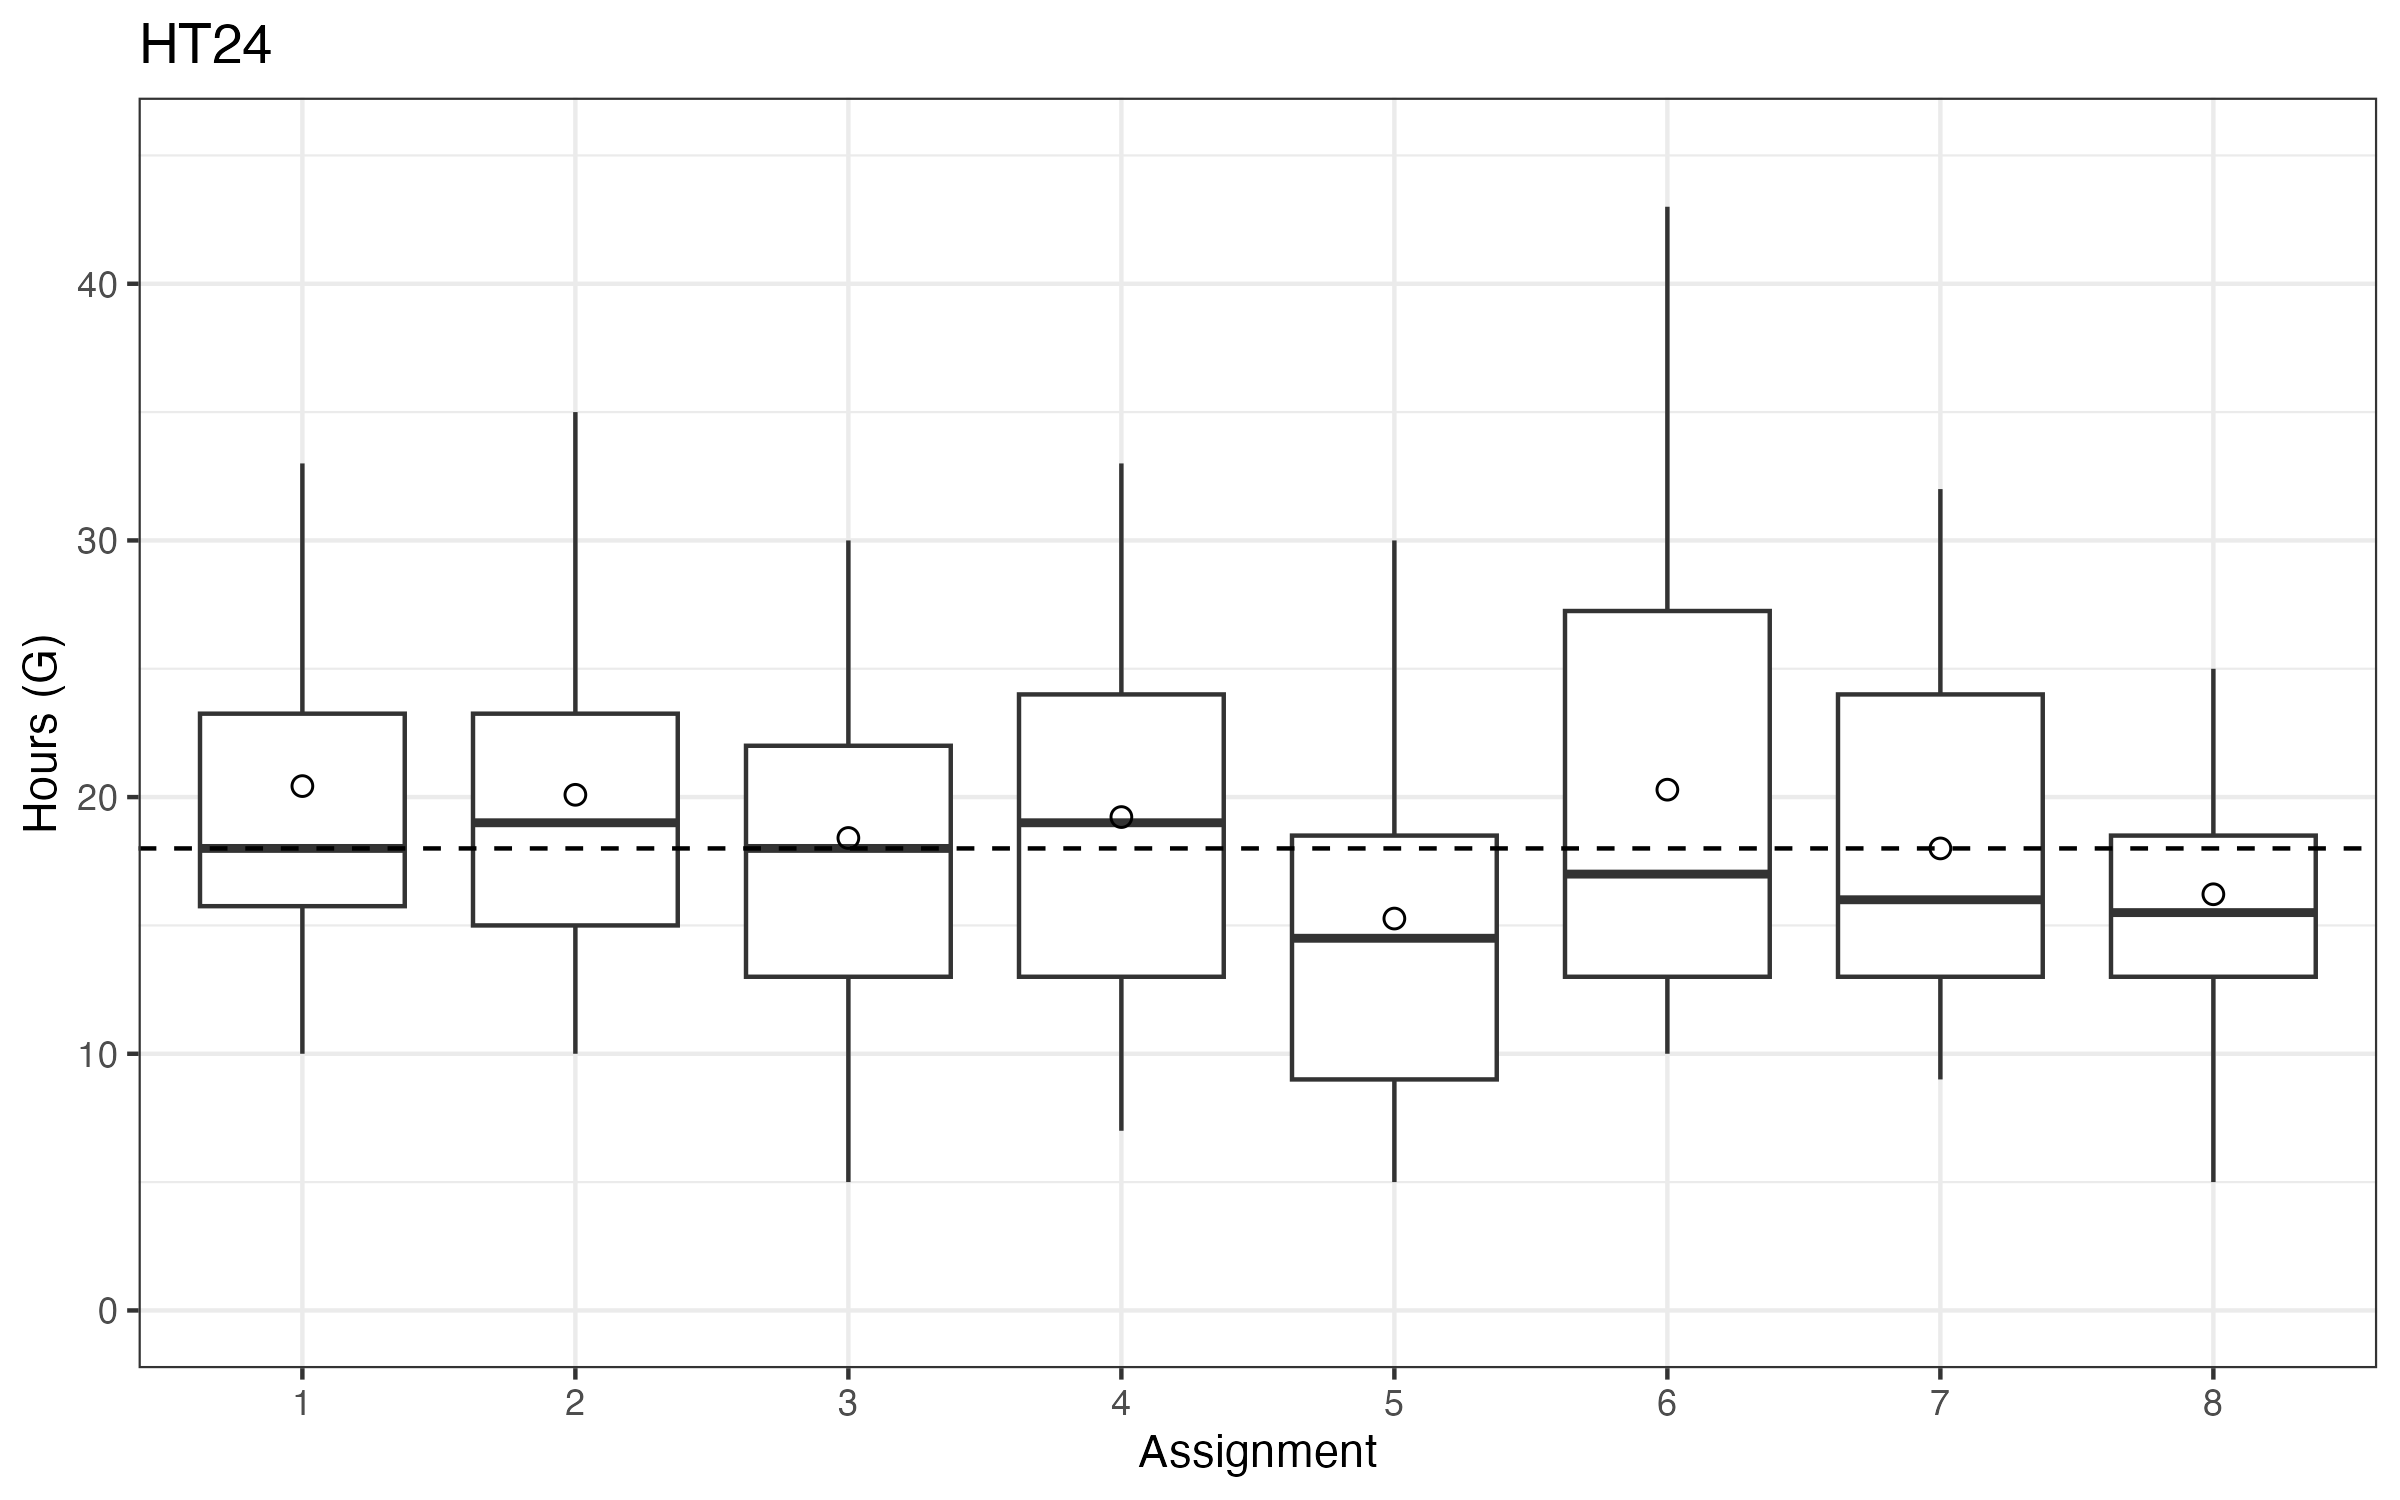
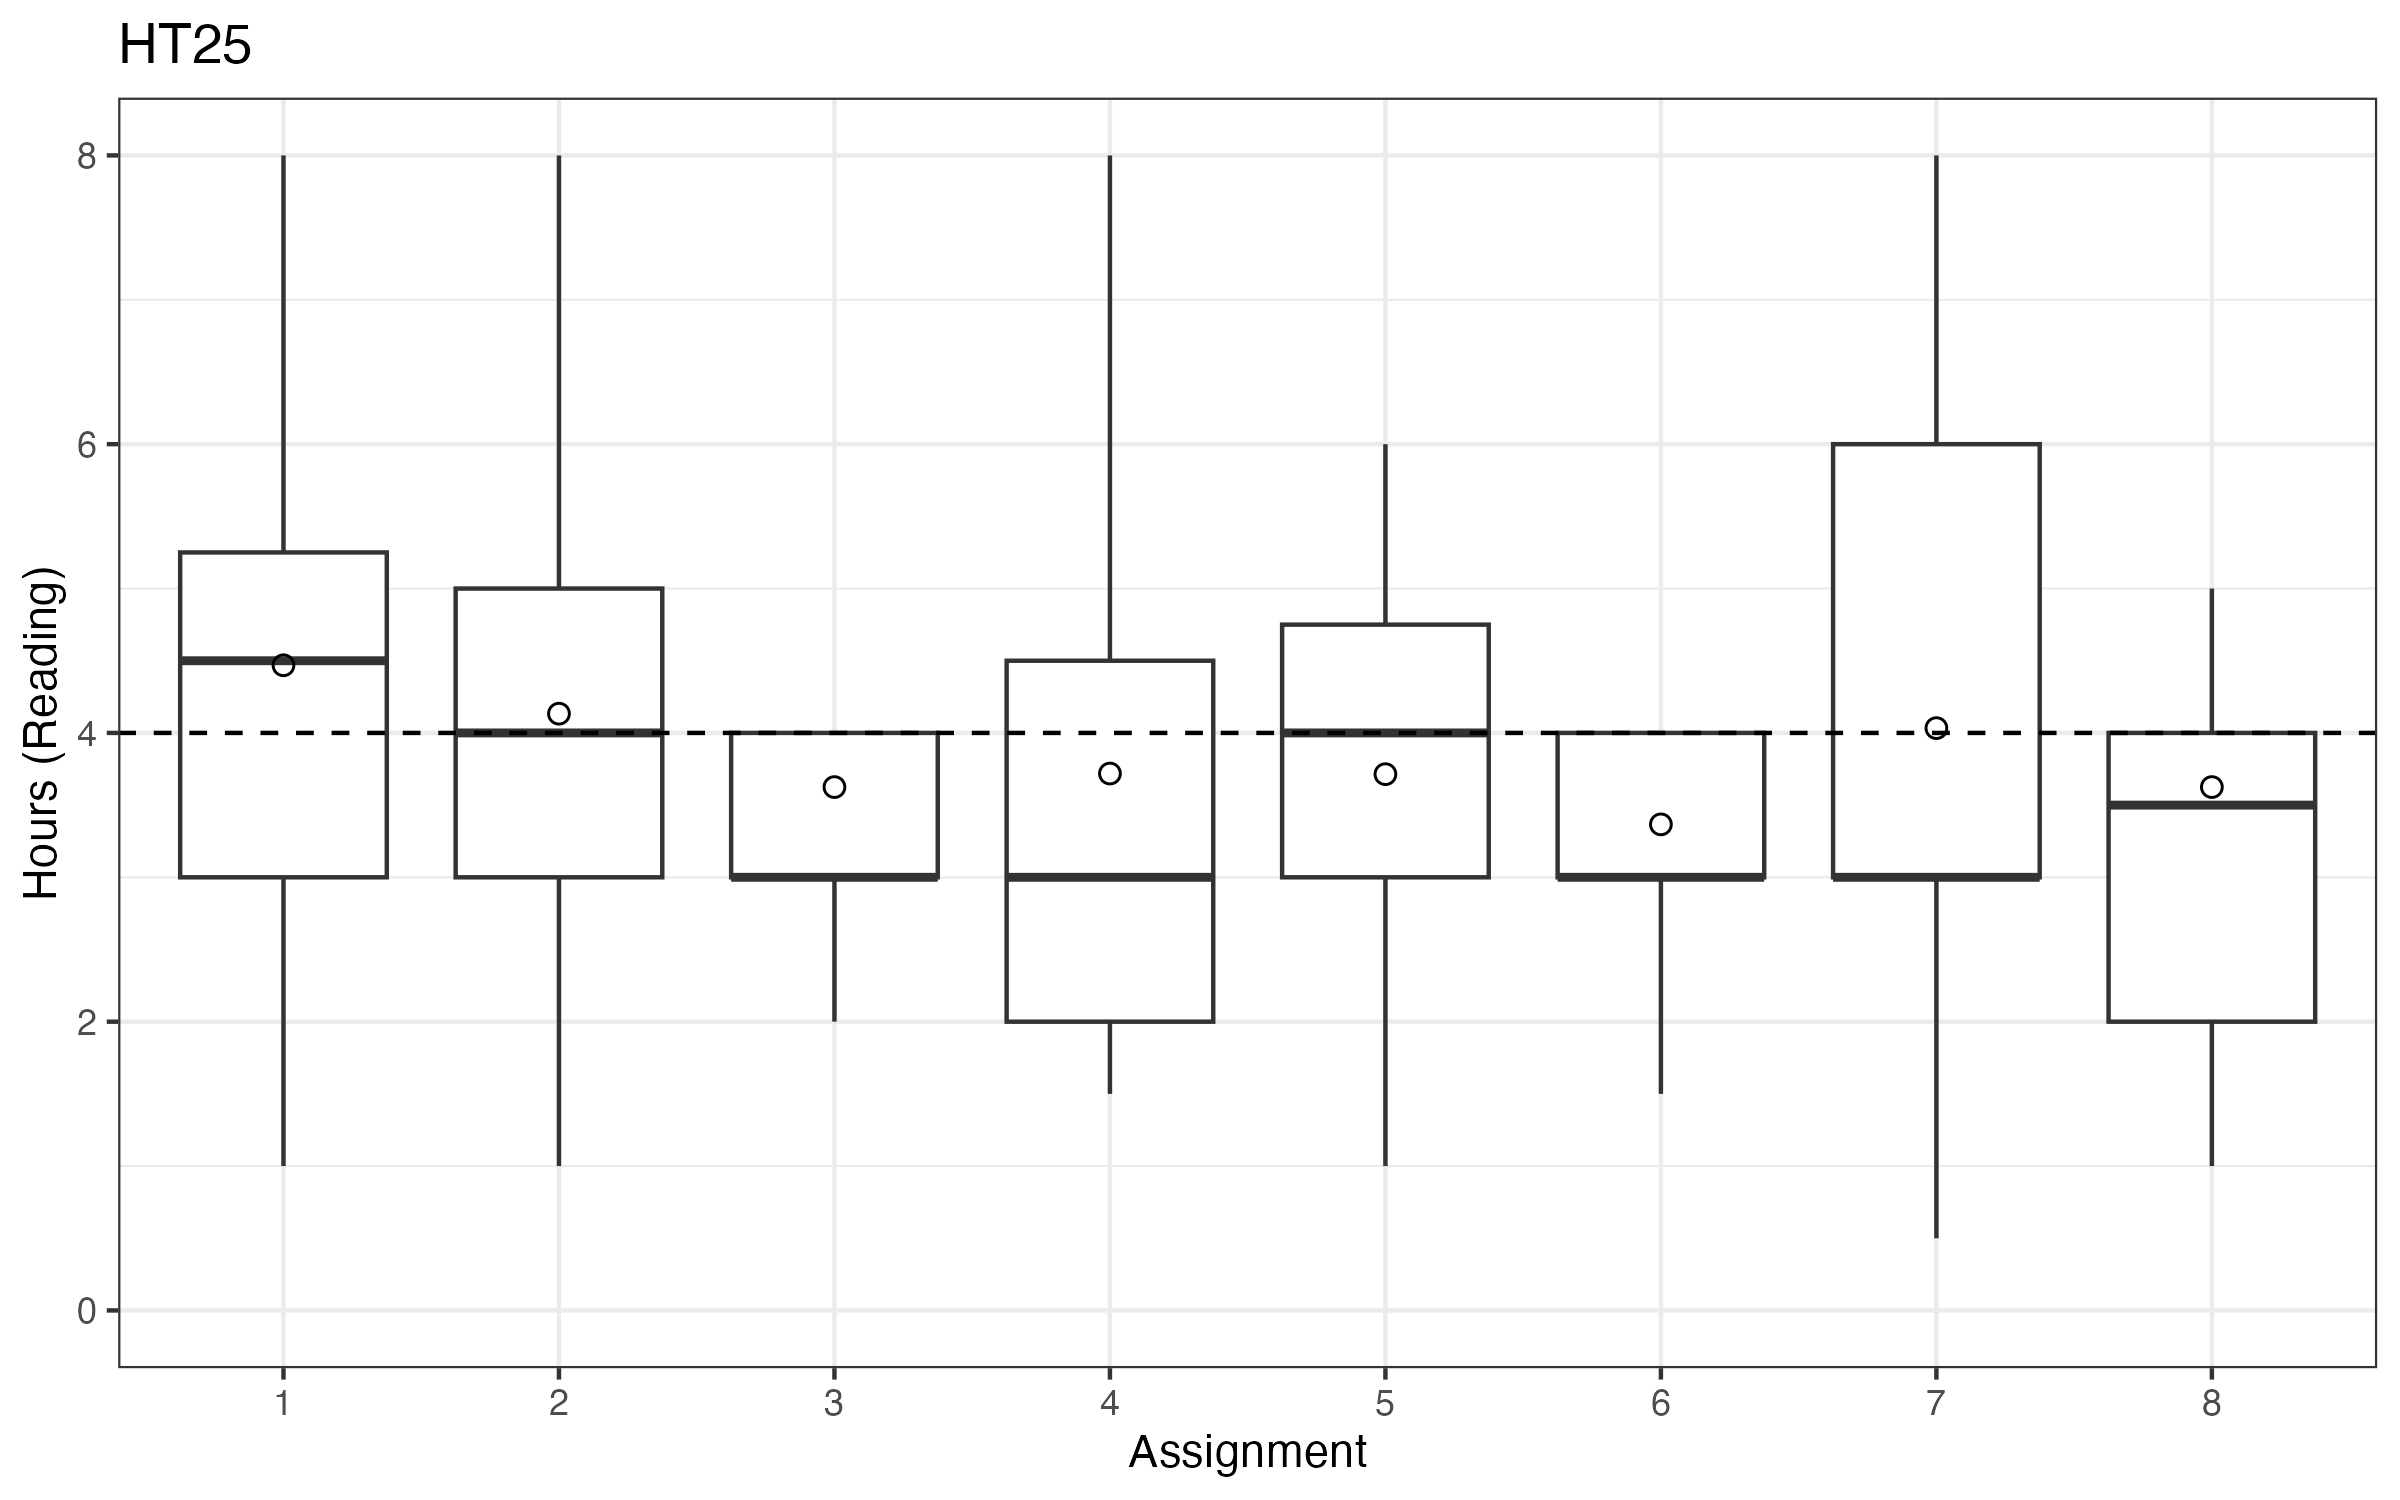
updates

diff --git a/lectures/B1/L1a.tex b/lectures/B1/L1a.tex
@@ -272,7 +272,7 @@ Exact dates and details; see the course page.
 \item Reading assignments (approx. 2-4h, 50-90 pages a week)
 \item One-two Lecture(s) (optional)
 \item An individual computer assignment (approx. 14-16h).
-\item Three Zoom computer lab sessions (optional)\pause
+\item Zoom question hours (optional)\pause
 \end{itemize}
 \item Reading: Mandatory and optional (overlap)\pause
 \item Recommended workflow for each block
